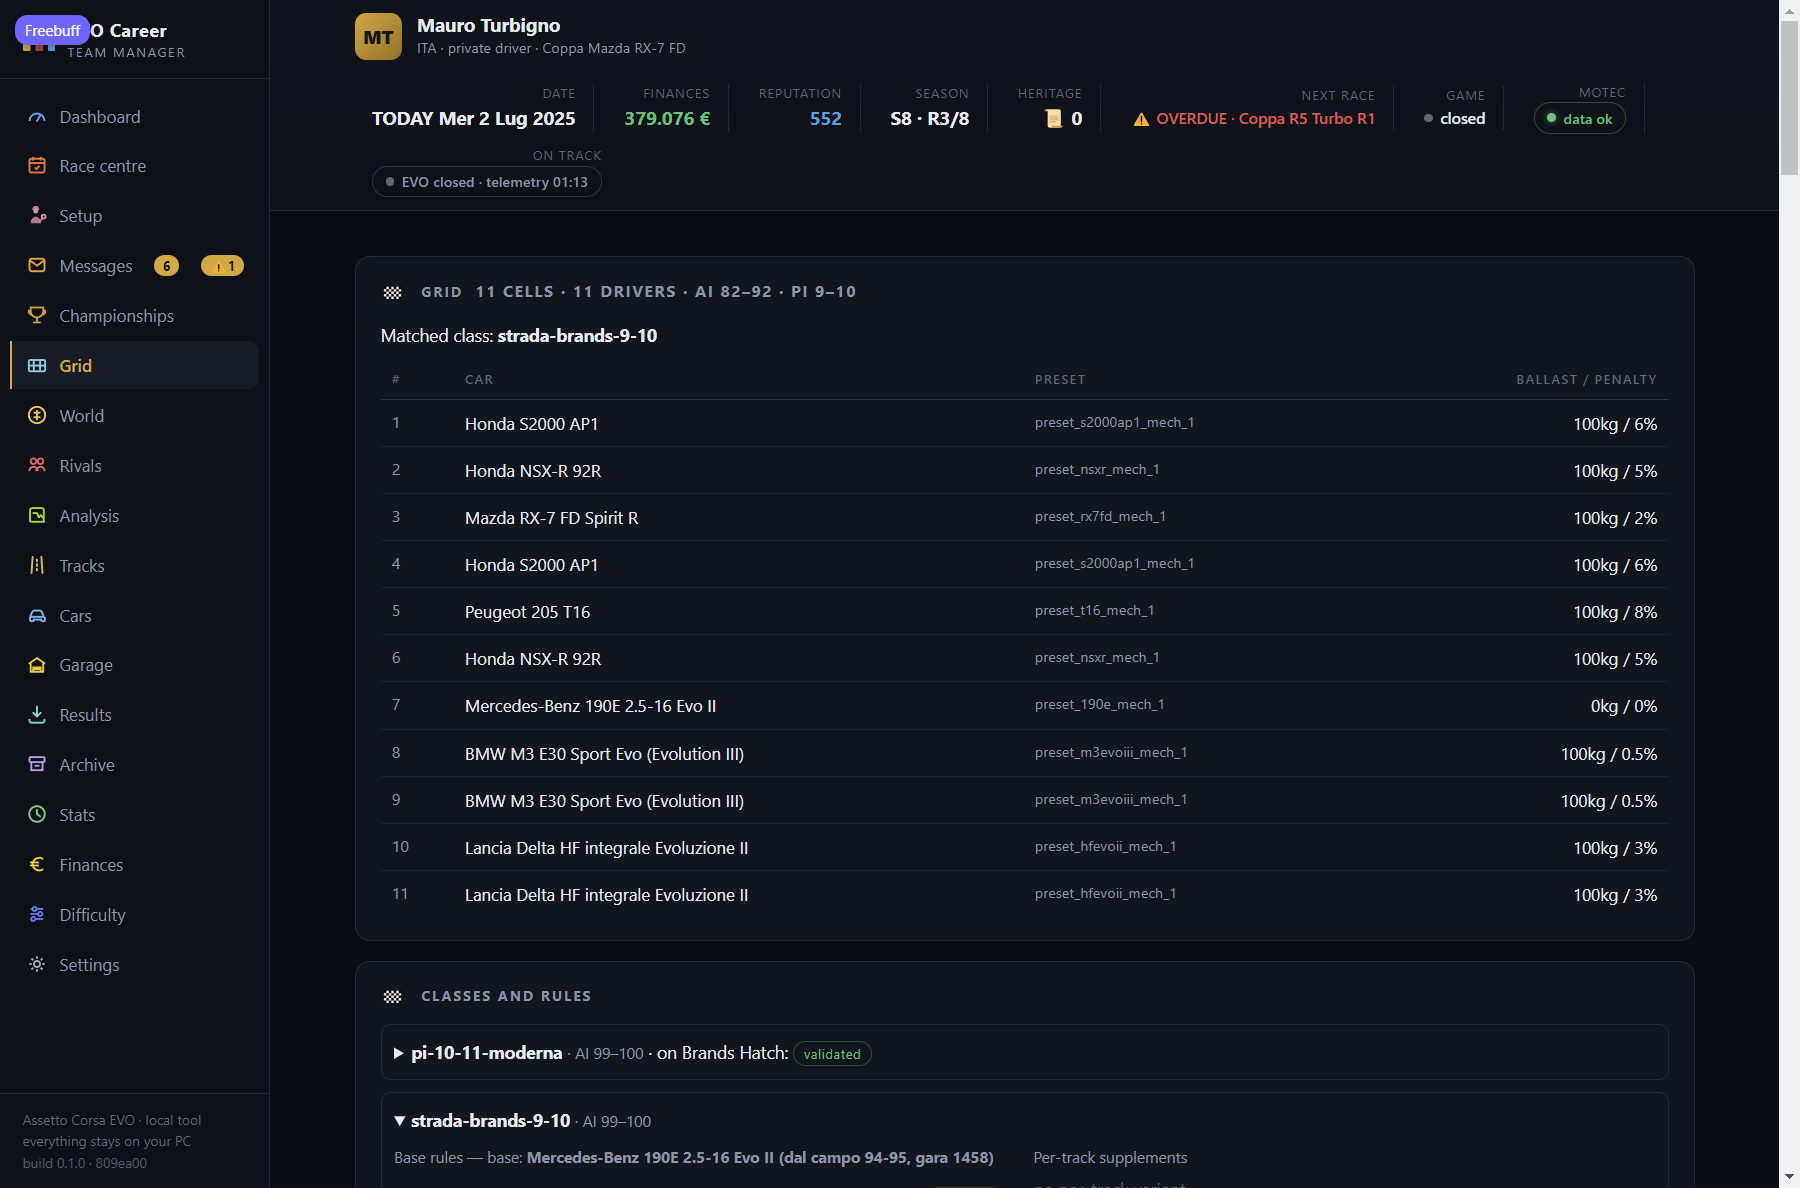
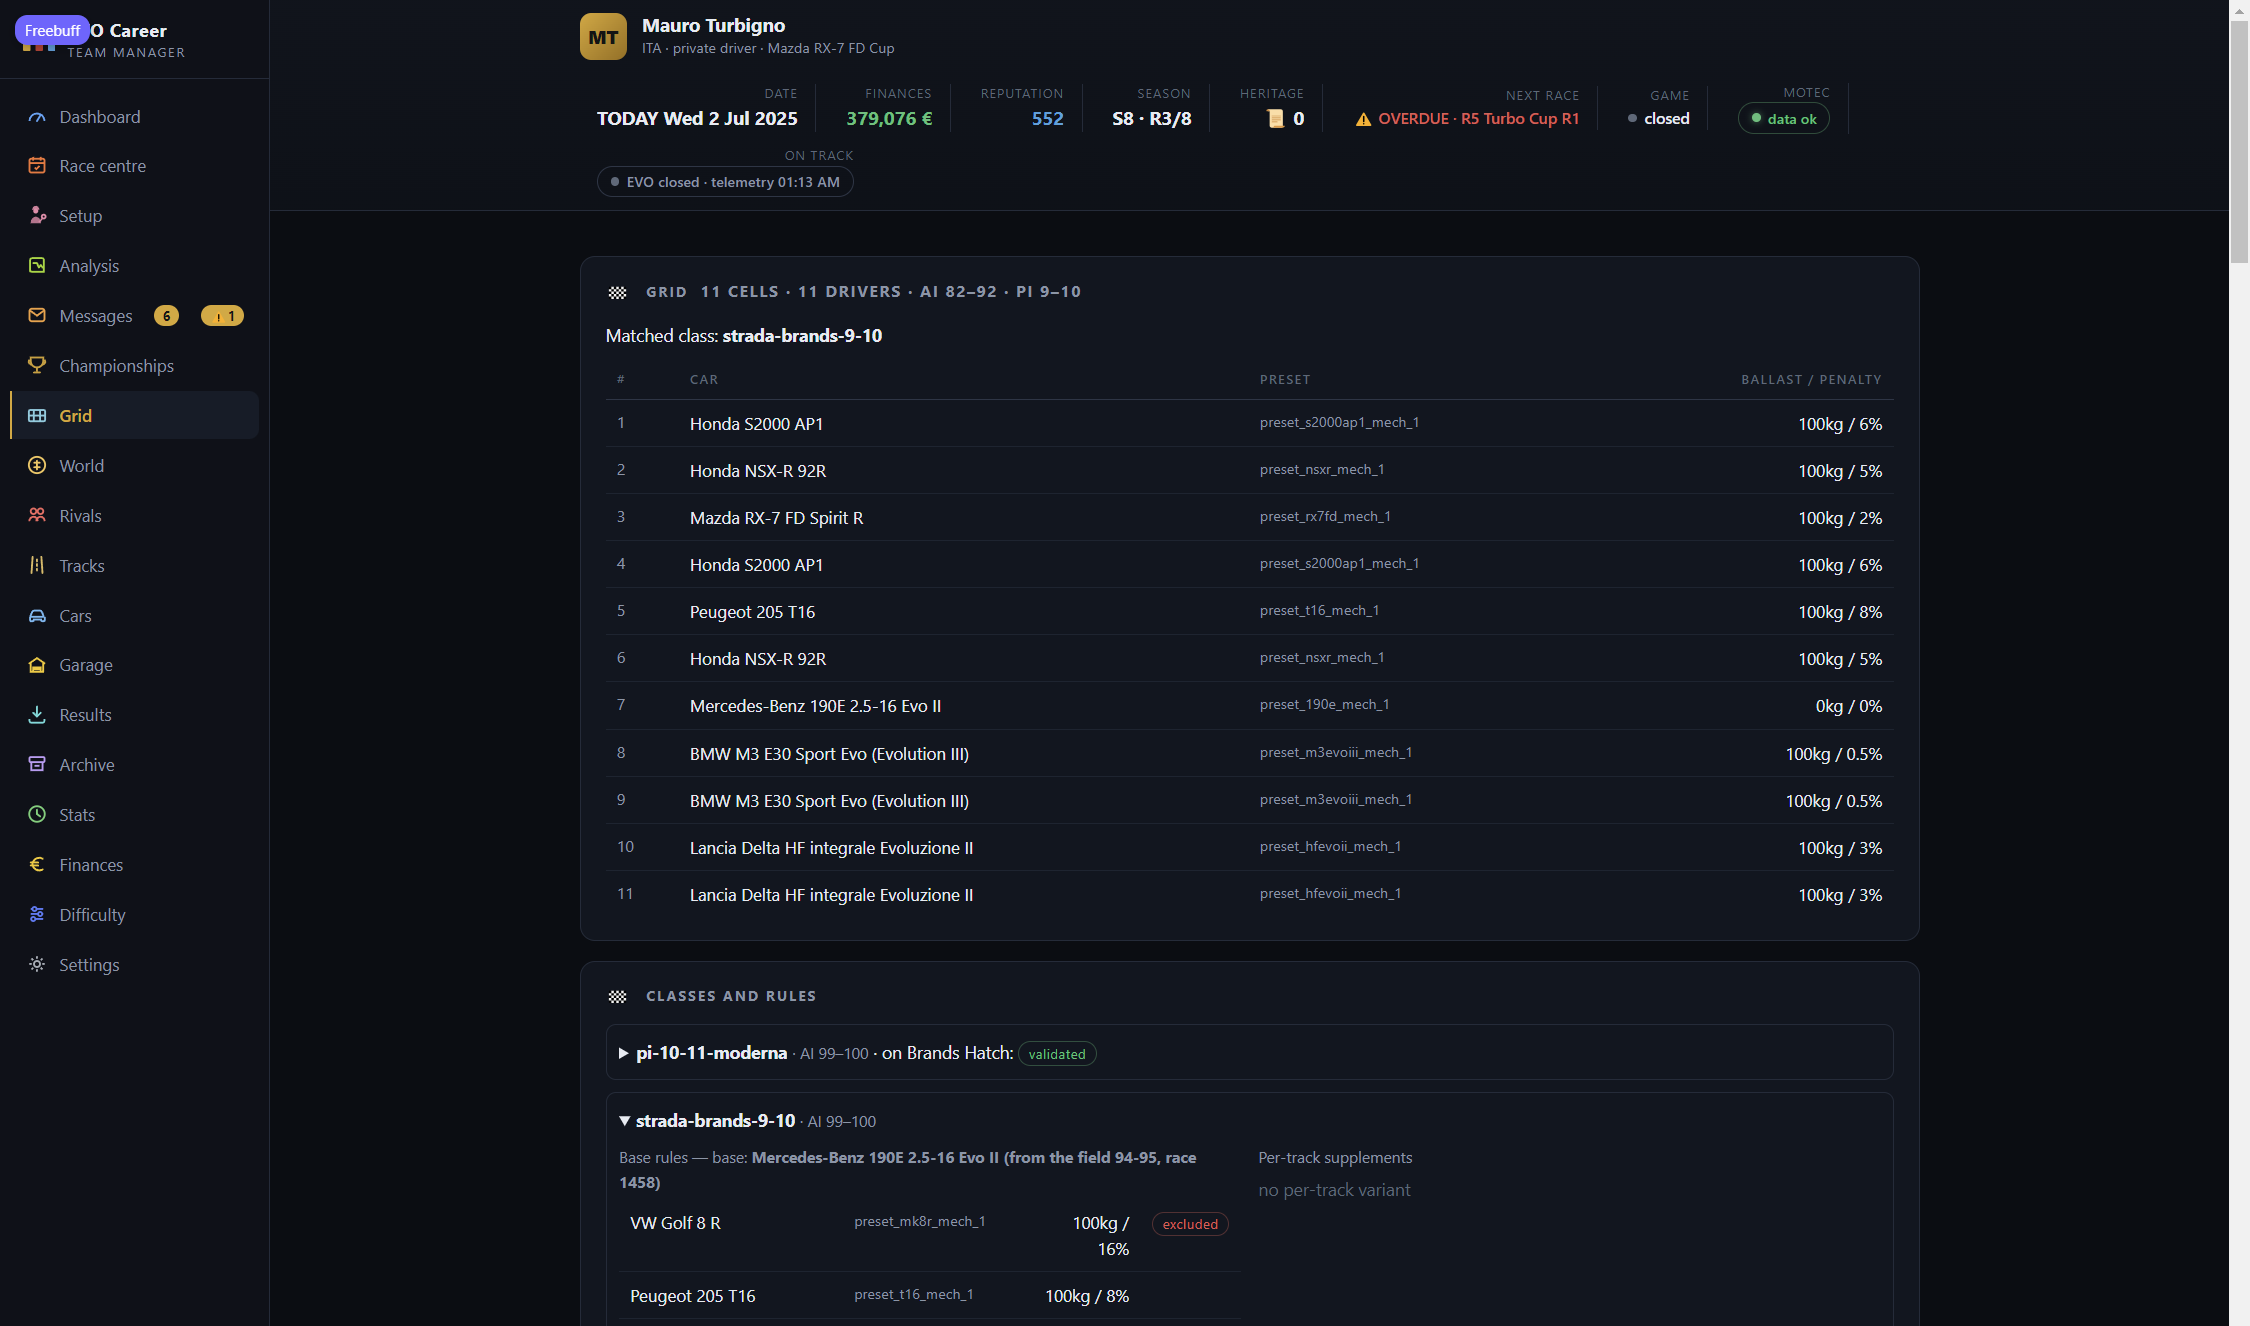
Schermate 0.1.3 rigenerate e residui di lingua chiusi (aree meccanico, trazione e traiezione, annotazioni griglia, orario header)

diff --git a/gui/js/viste-c.js b/gui/js/viste-c.js
@@ -1,4 +1,11 @@
 /* -------- risultati / import -------- */
+/* Trazione nei dati di progetto è in italiano (autoBase/specs): si presenta
+   nella lingua attiva, i dati su disco non si toccano. */
+function driveLabel(d) {
+  const s = String(d ?? '').trim().toLowerCase();
+  const map = { anteriore: { it: 'anteriore', en: 'front' }, posteriore: { it: 'posteriore', en: 'rear' }, integrale: { it: 'integrale', en: 'AWD' } };
+  return map[s] ? tr(map[s]) : (d ?? '');
+}
 async function drawImport(m){
   const [insp, card] = await Promise.all([api('import-inspect'), api('card')]);
   const pending = boot.header.pending;
@@ -129,7 +136,7 @@ async function drawCars(m){
       <img class="car-frame" src="${r.image}" alt="${esc(r.name)}" loading="lazy" style="width:100%;aspect-ratio:16/9;object-fit:cover;display:block;background:#0d1118">
       <div style="padding:8px 10px"><b style="font-size:12.5px">${esc(r.name)}</b> ${piBadge(r.pi)} <span class="faint" style="font-size:10px">${r.category==='racing'?` ${tr({ it: 'racing', en: 'racing' })}`:` ${tr({ it: 'stradale', en: 'road' })}`}</span>${inGar?` <span class="tag gold" style="font-size:10px;padding:1px 6px" title="${tr({ it: 'già nel tuo garage', en: 'already in your garage' })}">🏠 ${tr({ it: 'garage', en: 'garage' })}</span>`:''}
       ${price}
-      ${r.specs?.power!=null?`<div class="muted" style="font-size:11px;margin-top:4px">${r.specs.power} CV · ${r.specs.weight!=null?r.specs.weight+' kg · ':''}${esc(r.specs.drive??'')}</div>`:''}
+      ${r.specs?.power!=null?`<div class="muted" style="font-size:11px;margin-top:4px">${r.specs.power} ${tr({ it: 'CV', en: 'hp' })} · ${r.specs.weight!=null?r.specs.weight+' kg · ':''}${esc(driveLabel(r.specs.drive))}</div>`:''}
       ${r.variants?.length?`<div class="muted" style="font-size:11px;margin-top:2px">${tr({ it: 'varianti: ', en: 'variants: ' })}${esc(r.variants.join(', '))}</div>`:''}</div>
     </div>`;
     }).join('') || `<div class="empty">${tr({ it: 'Nessuna auto trovata.', en: 'No car found.' })}</div>`;
@@ -185,7 +192,7 @@ async function drawCars(m){
       ${row(tr({ it: 'Coppia', en: 'Torque' }), s.torque!=null?`${s.torque} Nm`:null)}
       ${row(tr({ it: 'Peso', en: 'Weight' }), s.weight!=null?`${s.weight} kg`:null)}
       ${row(tr({ it: 'Peso/potenza', en: 'Power/weight' }), s.pwratio!=null?esc(String(s.pwratio)):(s.power&&s.weight?`${(s.weight/s.power).toFixed(2)} kg/${tr({ it: 'CV', en: 'hp' })}`:null))}
-      ${row(tr({ it: 'Trazione', en: 'Drivetrain' }), s.drive?esc(s.drive):null)}
+      ${row(tr({ it: 'Trazione', en: 'Drivetrain' }), s.drive?esc(driveLabel(s.drive)):null)}
       ${row(tr({ it: 'Cambio', en: 'Gearbox' }), s.gearbox?esc(s.gearbox):null)}
       ${row(tr({ it: 'Velocità massima', en: 'Top speed' }), s.topspeed?esc(String(s.topspeed)):null)}
       ${row(tr({ it: 'Accelerazione', en: 'Acceleration' }), s.acceleration?esc(String(s.acceleration)):null)}
@@ -242,7 +249,7 @@ async function drawGarage(m){
     <div class="panel" style="padding:0;overflow:hidden" data-car="${esc(c.carId)}">
       ${c.image?`<img class="car-frame" src="${c.image}" alt="${esc(c.carName)}" loading="lazy" style="width:100%;aspect-ratio:16/9;object-fit:cover;display:block;background:#0d1118">`:''}
       <div style="padding:9px 11px">
-        <div style="display:flex;gap:6px;align-items:center;flex-wrap:wrap"><b style="font-size:13px">${esc(c.carName)}</b> ${badge(c.how, c.note)}${c.pi!=null?`<span class="tag blue" style="font-size:10px;padding:1px 6px" title="Perf. index dal server dedicato">PI ${c.pi.toFixed(1)}</span>`:''}</div>
+        <div style="display:flex;gap:6px;align-items:center;flex-wrap:wrap"><b style="font-size:13px">${esc(c.carName)}</b> ${badge(c.how, c.note)}${c.pi!=null?`<span class="tag blue" style="font-size:10px;padding:1px 6px" title="${tr({ it: 'Perf. index dal server dedicato', en: 'Performance index from the dedicated server' })}">PI ${c.pi.toFixed(1)}</span>`:''}</div>
         <div class="muted" style="font-size:11px;margin-top:3px">${tr({ it: 'nel garage dal ', en: 'in the garage since ' })}${esc(new Date(c.since).toLocaleDateString(window.LOCALE ?? 'it-IT'))}${c.note?` · ${esc(legacyIt(c.note))}`:''}</div>
         <div style="display:flex;gap:10px;margin-top:7px;font-size:12px;flex-wrap:wrap">
           <span title="${tr({ it: 'gare con questa auto', en: 'races with this car' })}">🏁 ${c.stats.races} ${tr({ it: 'gare', en: 'races' })}</span>
@@ -420,7 +427,7 @@ async function drawSetup(m){
       areas: cl?.items?.length ?? 0,
       stale: !!tel.stale?.changed,
       live: live?.game ? (live?.live ? tr({ it: 'in pista', en: 'on track' }) : tr({ it: 'aperto', en: 'open' })) : null,
-      telem: h?.telem?.lastLd ? new Date(h.telem.lastLd.mtimeMs).toLocaleTimeString('it-IT', { hour: '2-digit', minute: '2-digit' }) : null,
+      telem: h?.telem?.lastLd ? new Date(h.telem.lastLd.mtimeMs).toLocaleTimeString(window.LOCALE, { hour: '2-digit', minute: '2-digit' }) : null,
     };
     /* SETUP PIÙ NUOVO DELL'ULTIMA SESSIONE: il meccanico giudica i dati vecchi —
        mostrato GRANDE sopra la checklist, non solo come chip (Mauro 21/10). */
@@ -428,11 +435,21 @@ async function drawSetup(m){
       ? `<div class="banner warn" style="margin:10px 0 0;padding:10px 12px">⚠ <b>${tr({ it: "Setup montato più recente dell'ultima uscita", en: 'Newer setup fitted after the last outing' })}</b> — ${tr({ it: 'la base dati del meccanico (giri, bump, camber, freni) parla della sessione di ', en: 'the mechanic\'s data (laps, bump, camber, brakes) refers to the session of ' })}<b>${esc(tel.stale.lastSession ?? '?')}</b>, ${tr({ it: 'ma il file di setup attivo è ', en: 'but the active setup file is ' })}<b>«${esc(tel.stale.file)}»</b> ${tr({ it: 'salvato alle ', en: 'saved at ' })}${esc(tel.stale.setupWhen ?? '')}.<br><span class="muted" style="font-size:11.5px">${tr({ it: 'Fai 2 giri con il nuovo assetto (telemetria attiva): appena il .ld esce, tutta l\'analisi si rigenera sui dati freschi. Il consiglio pressioni resta valido: si proietta sui TARGET, non sui valori del vecchio setup.', en: 'Do 2 laps with the new setup (telemetry on): as soon as the .ld appears, the whole analysis rebuilds on fresh data. The pressure advice stays valid: it projects onto TARGETS, not the old setup values.' })}</span></div>`
       : '';
     const DOT = { ok: '🟢', warn: '🟠', bad: '🔴', info: '🔸' };
+    /* Le chiavi 'area' della checklist sono parole-chiave fisse (parlate in bg,
+       non utente): si presentano nella lingua attiva, l'etichetta in it resta
+       parola-per-parola perché è il riferimento del people di progetto. */
+    const AREA = {
+      pressioni: { it: 'pressioni', en: 'pressures' }, bumpstop: { it: 'bumpstop', en: 'bumpstops' },
+      camber: { it: 'camber', en: 'camber' }, gomme: { it: 'gomme', en: 'tyres' },
+      freni: { it: 'freni', en: 'brakes' }, benzina: { it: 'benzina', en: 'fuel' },
+      tempo: { it: 'tempi', en: 'lap times' }, storia: { it: 'storia', en: 'history' },
+      telemetria: { it: 'telemetria', en: 'telemetry' },
+    };
     const clHtml = cl ? (
       cl.allGood
         ? `<div class="banner good" style="margin:10px 0;padding:10px 12px">🟢 <b>${tr({ it: 'Auto a punto — il meccanico non ha più niente da consigliare.', en: "Car dialed in — the mechanic has nothing more to suggest." })}</b> <span class="muted" style="font-size:11.5px">${tr({ it: 'Nessuna voce sotto soglia: puoi girare col setup attuale — la lista riparte colorata se qualcosa esce fuori al prossimo giro.', en: 'No item below threshold: you can run the current setup — the list lights up again if anything goes out on the next lap.' })}</span></div>`
         : `<ul style="margin:10px 0 4px;padding:0;list-style:none;font-size:13px;line-height:1.75">
-      ${cl.items.map((i) => `<li style="margin:0">${DOT[i.level] ?? '🔸'} <b>${esc(i.area)}</b> — ${esc(i.text)}</li>`).join('\n      ')}
+      ${cl.items.map((i) => `<li style="margin:0">${DOT[i.level] ?? '🔸'} <b>${esc(AREA[i.area] ? tr(AREA[i.area]) : i.area)}</b> — ${esc(i.text)}</li>`).join('\n      ')}
     </ul>`
     ) : '';
     /* SETUP RISISTEMATO: il GRAFICO DELLA TELEMETRIA è la prima cosa si vede,

diff --git a/gui/js/viste-griglia.js b/gui/js/viste-griglia.js
@@ -37,7 +37,7 @@ async function drawGridTab(m){
           ${(cl.convalidatoSu || []).length ? ` · ${tr({ it: 'su ', en: 'on ' })}${esc(cl.convalidatoSu.join(', '))}: ${badgeOk}` : ''}</summary>
         <div class="row" style="align-items:start;gap:14px;margin-top:10px;flex-wrap:wrap">
           <div style="flex:1;min-width:280px">
-            <div class="muted" style="margin-bottom:4px">${tr({ it: 'Regole base', en: 'Base rules' })}${cl.autoBase ? ` — ${tr({ it: 'base: ', en: 'base: ' })}<b>${esc(cl.autoBase)}</b>` : ''}</div>
+            <div class="muted" style="margin-bottom:4px">${tr({ it: 'Regole base', en: 'Base rules' })}${cl.autoBase ? ` — ${tr({ it: 'base: ', en: 'base: ' })}<b>${esc(legacyIt(cl.autoBase))}</b>` : ''}</div>
             <table><tbody>${cl.regole.map((r) => `<tr><td>${esc(r.auto)}</td><td class="muted" style="font-size:11.5px">${esc(r.preset ?? '')}</td><td class="right">${r.kg}kg / ${pct(r.pct)}</td><td>${r.escluso ? `<span class="tag red">${tr({ it: 'esclusa', en: 'excluded' })}</span>` : ''}</td></tr>`).join('')}</tbody></table>
           </div>
           <div style="flex:1;min-width:280px">

diff --git a/gui/js/viste-d.js b/gui/js/viste-d.js
@@ -610,7 +610,7 @@ async function drawLiveStrip(){
         return;
       }
       const age = Date.now() - (h?.telem?.lastLd?.mtimeMs ?? 0);
-      const ultima = h?.telem?.lastLd ? new Date(h.telem.lastLd.mtimeMs).toLocaleTimeString(window.LINGUA === 'en' ? 'en-GB' : 'it-IT', { hour: '2-digit', minute: '2-digit' }) : null;
+      const ultima = h?.telem?.lastLd ? new Date(h.telem.lastLd.mtimeMs).toLocaleTimeString(window.LOCALE, { hour: '2-digit', minute: '2-digit' }) : null;
       const label = r.stale ? tr({ it: 'EVO · segnale live perso', en: 'EVO · live signal lost' })
         : (h?.telem?.lastLd?.valid && age < 10000 ? tr({ it: 'EVO · sessione chiusa — scrittura telemetria', en: 'EVO · session closed — writing telemetry' })
         : (ultima ? tr({ it: `EVO chiuso · telem. ore ${ultima}`, en: `EVO closed · telemetry ${ultima}` }) : tr({ it: 'EVO chiuso', en: 'EVO closed' })));

diff --git a/gui/js/lang.js b/gui/js/lang.js
@@ -35,7 +35,11 @@ window.legacyIt = (s) => {
     .replace(/\bsotto la base su ([^:]+): penalità troppo larga, la alleggerisco\b/g, 'under the base at $1: penalty too large, easing it')
     .replace(/\bsulla base\b/g, 'from the base')
     .replace(/\b(dalla base) su\b/g, 'from the base at')
-    .replace(/\(stagione (\d+|\?)\)/g, '(season $1)');
+    .replace(/\(stagione (\d+|\?)\)/g, '(season $1)')
+    /* note di calibrazione generanti dalle gare (annotazione autoBase della griglia): */
+    .replace(/\(dal campo ([^,)]+), gara (\d+)\)/g, '(from the field $1, race $2)')
+    .replace(/\(base della calibrazione: ([^)]+)\)/g, '(calibration base: $1)')
+    .replace(/\bcalibrazione (\d+)-?(\d+)? \? \(gara (\d+)\)/g, 'calibration $1-$2 (race $3)');
 };
 
 window.impostaLingua = (lingua) => {
